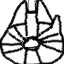
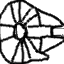
change angle

diff --git a/models.py b/models.py
@@ -15,7 +15,7 @@ class Model:
 class Ship(Model):
 
     def __init__(self, world, x, y):
-        super().__init__(world, x, y, 0)
+        super().__init__(world, x, y, 90)
 
     def animate(self, delta):
         if self.y > self.world.height:
@@ -25,11 +25,11 @@ class Ship(Model):
 
     def move(self, up, down):
         if up :
-            self.x -= math.sin(math.radians(self.angle)) * 2
-            self.y += math.cos(math.radians(self.angle)) * 2
+            self.x += math.cos(math.radians(self.angle)) * 2
+            self.y += math.sin(math.radians(self.angle)) * 2
         if down :
-            self.x += math.sin(math.radians(self.angle)) * 2
-            self.y -= math.cos(math.radians(self.angle)) * 2
+            self.x -= math.cos(math.radians(self.angle)) * 2
+            self.y -= math.sin(math.radians(self.angle)) * 2
 
     def turn(self, left, right):
         if left :
@@ -47,14 +47,20 @@ class Bullet(Model) :
         super().__init__(world, x, y, angle)
 
     def animate(self, delta) :
-        self.x -= math.sin(math.radians(self.angle)) * 4
-        self.y += math.cos(math.radians(self.angle)) * 4
+        self.x += math.cos(math.radians(self.angle)) * 4
+        self.y += math.sin(math.radians(self.angle)) * 4
 
 class WaterBar(Model) :
     width = 4
     height = 16
     def __init__(self, world, x, y) :
         super().__init__(world, x, y, 0)
+
+# class Meteorite(Model) :
+#     def __init__(self, world):
+#         x = randint(world.width, world.width + 100)
+#         y = randint(world.height, world.height + 100)
+#         super().__init__(world, x, y, 0)
 
 class World:
     def __init__(self, width, height):
